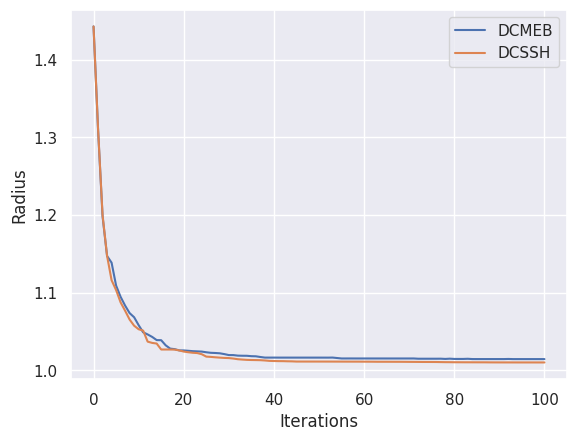
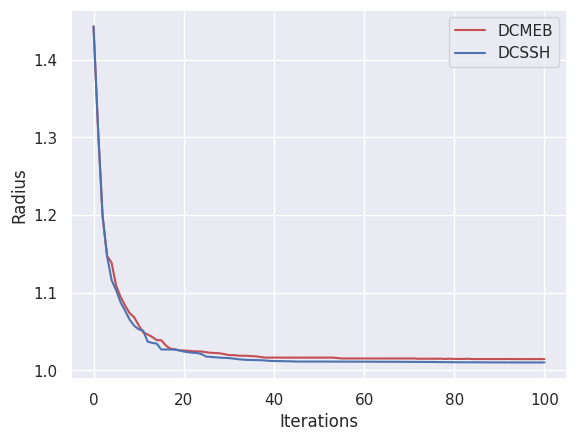
plotting

diff --git a/src/improvement_plots.py b/src/improvement_plots.py
@@ -1,0 +1,50 @@
+import pandas as pd
+import matplotlib.pyplot as plt
+
+import plot_settings
+
+heuristics = ["dcmeb", "dcssh"]
+data_types = ["hyperspherical_shell", "normal", "uniform_ball", "uniform_ball_with_outliers"]
+params = ["n", "d"]
+
+colours = {"dcmeb": "r", "dcssh": "b"}
+markers = {"dcmeb": "o", "dcssh": "^"}
+
+for data_type in data_types:
+    for param in params:
+        # load dataframes
+        dfs = {heuristic: None for heuristic in heuristics}
+        for heuristic in heuristics:
+            # construct filename
+            filename = "avg_pct_func_{}".format(param)
+            if param == "n":
+                filename += "_d100"
+            else:
+                filename += "_n1000"
+            filename += "_eta0p9_{}".format(data_type)
+
+            # load from csv
+            dfs[heuristic] = pd.read_csv(r"benchmarks/{0}/{1}/{2}.csv".format(heuristic, data_type, filename))
+
+        # get avg% lists
+        pct_lists = {heuristic: df["avg%"] for heuristic, df in dfs.items()}
+
+        plt.figure()
+        plt.xlabel(param)
+        plt.ylabel("avg%")
+            
+        if param == "n":
+            x_axis = [500+500*i for i in range(10)]
+        else:
+            x_axis = [10+10*i for i in range(15)]
+        
+        for heuristic, pct_list in pct_lists.items():
+            marker = markers[heuristic]
+            colour = colours[heuristic]
+            
+            plt.plot(x_axis, pct_list, marker=marker, linestyle=":", color=colour, label=heuristic.upper())
+
+        plt.legend()
+        
+        plt.savefig(r"images/improvement_r_benchmarks/{}".format(filename), bbox_inches="tight")
+

diff --git a/src/improvement_example.py b/src/improvement_example.py
@@ -36,8 +36,8 @@ for name, data in datas.items():
         ball2.improve(inliers, method="dcssh", gamma=ball2.radius**2)
         r2.append(ball2.radius)
 
-    plt.plot(range(num_iter+1), r1, label="DCMEB")
-    plt.plot(range(num_iter+1), r2, label="DCSSH")
+    plt.plot(range(num_iter+1), r1, color="r", label="DCMEB")
+    plt.plot(range(num_iter+1), r2, color="b", label="DCSSH")
     plt.xlabel("Iterations")
     plt.ylabel("Radius")
     plt.legend()
